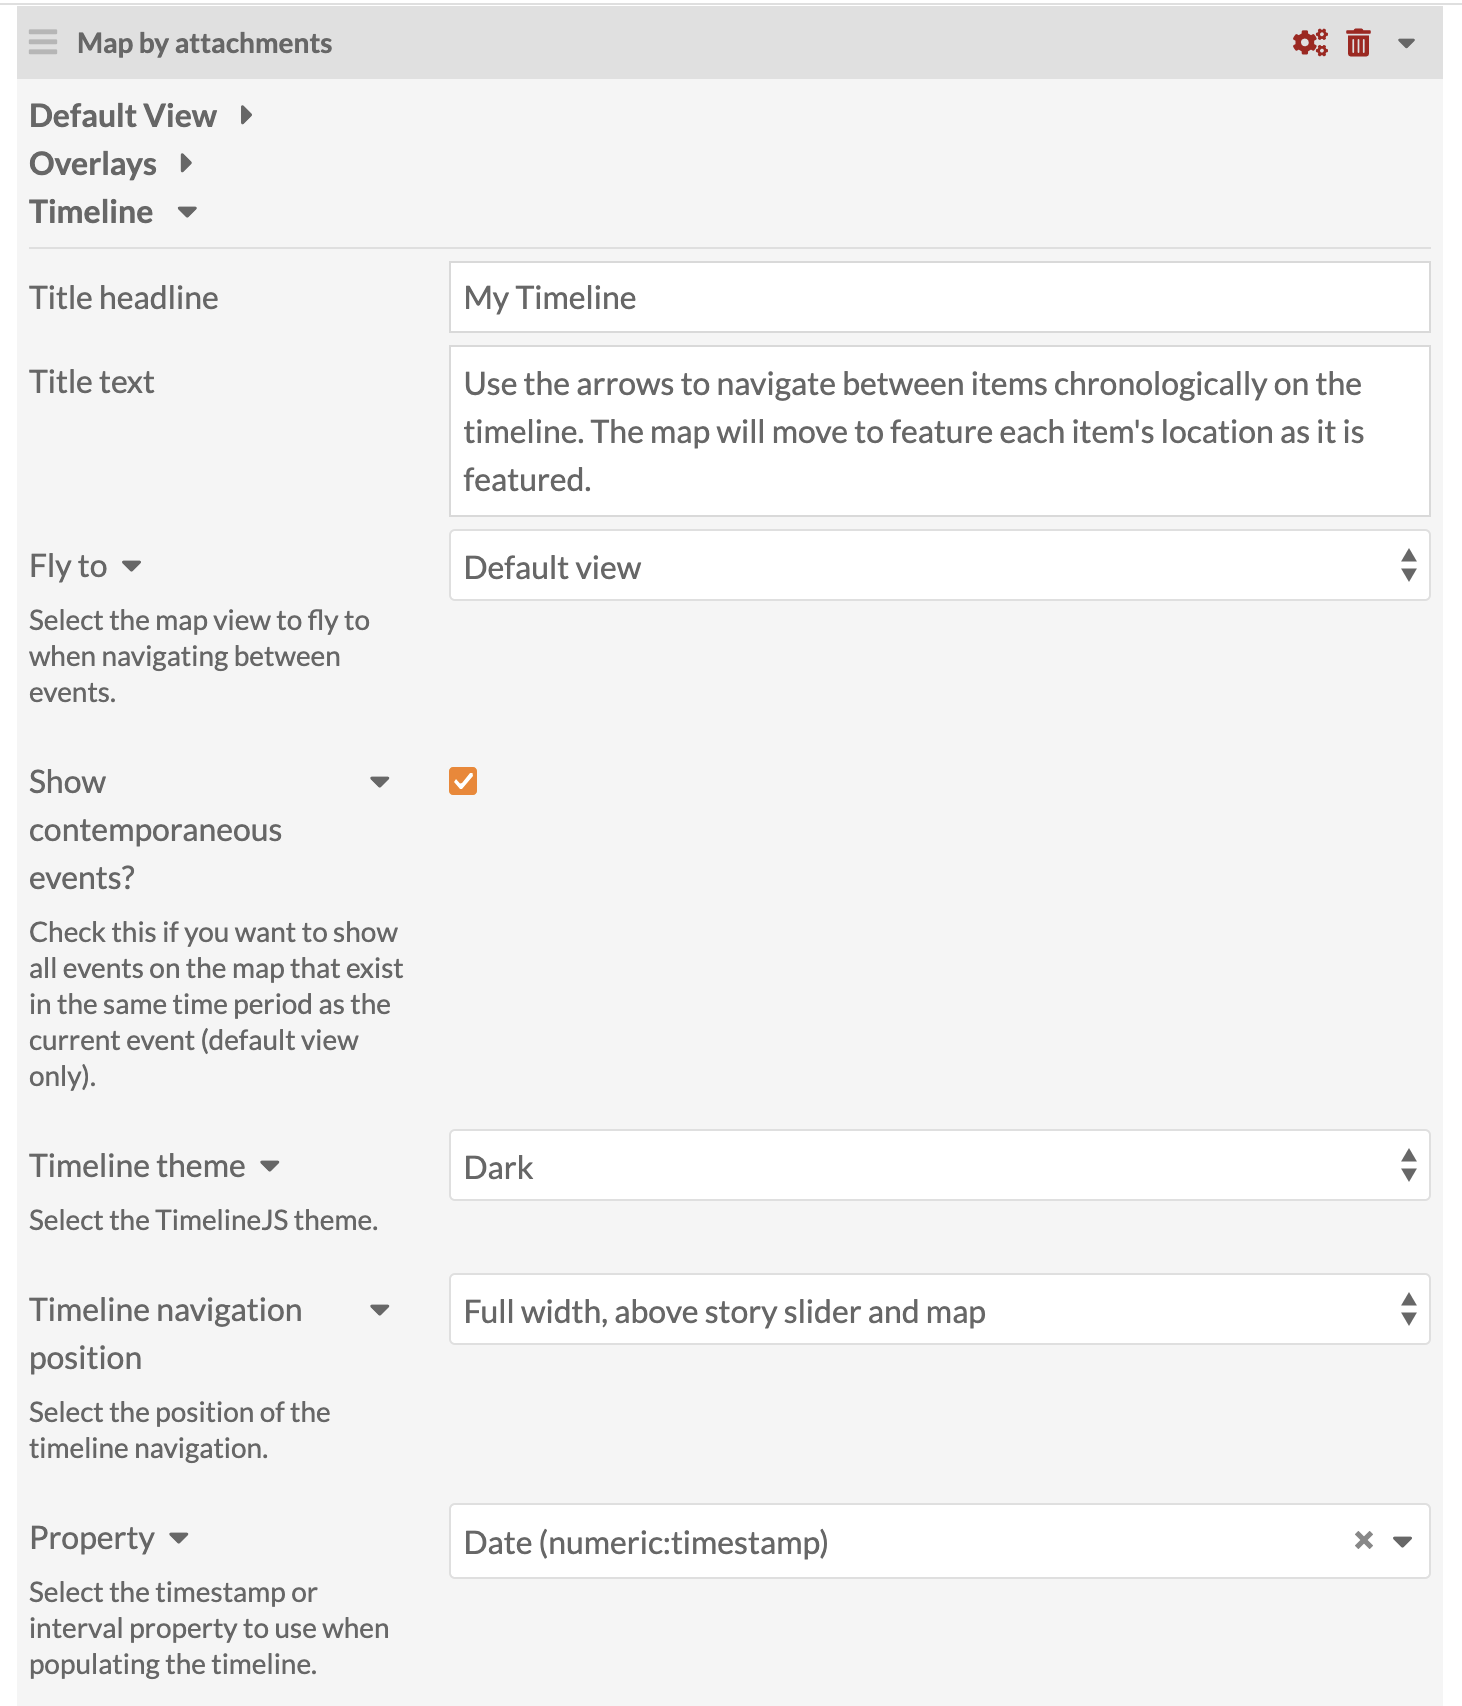
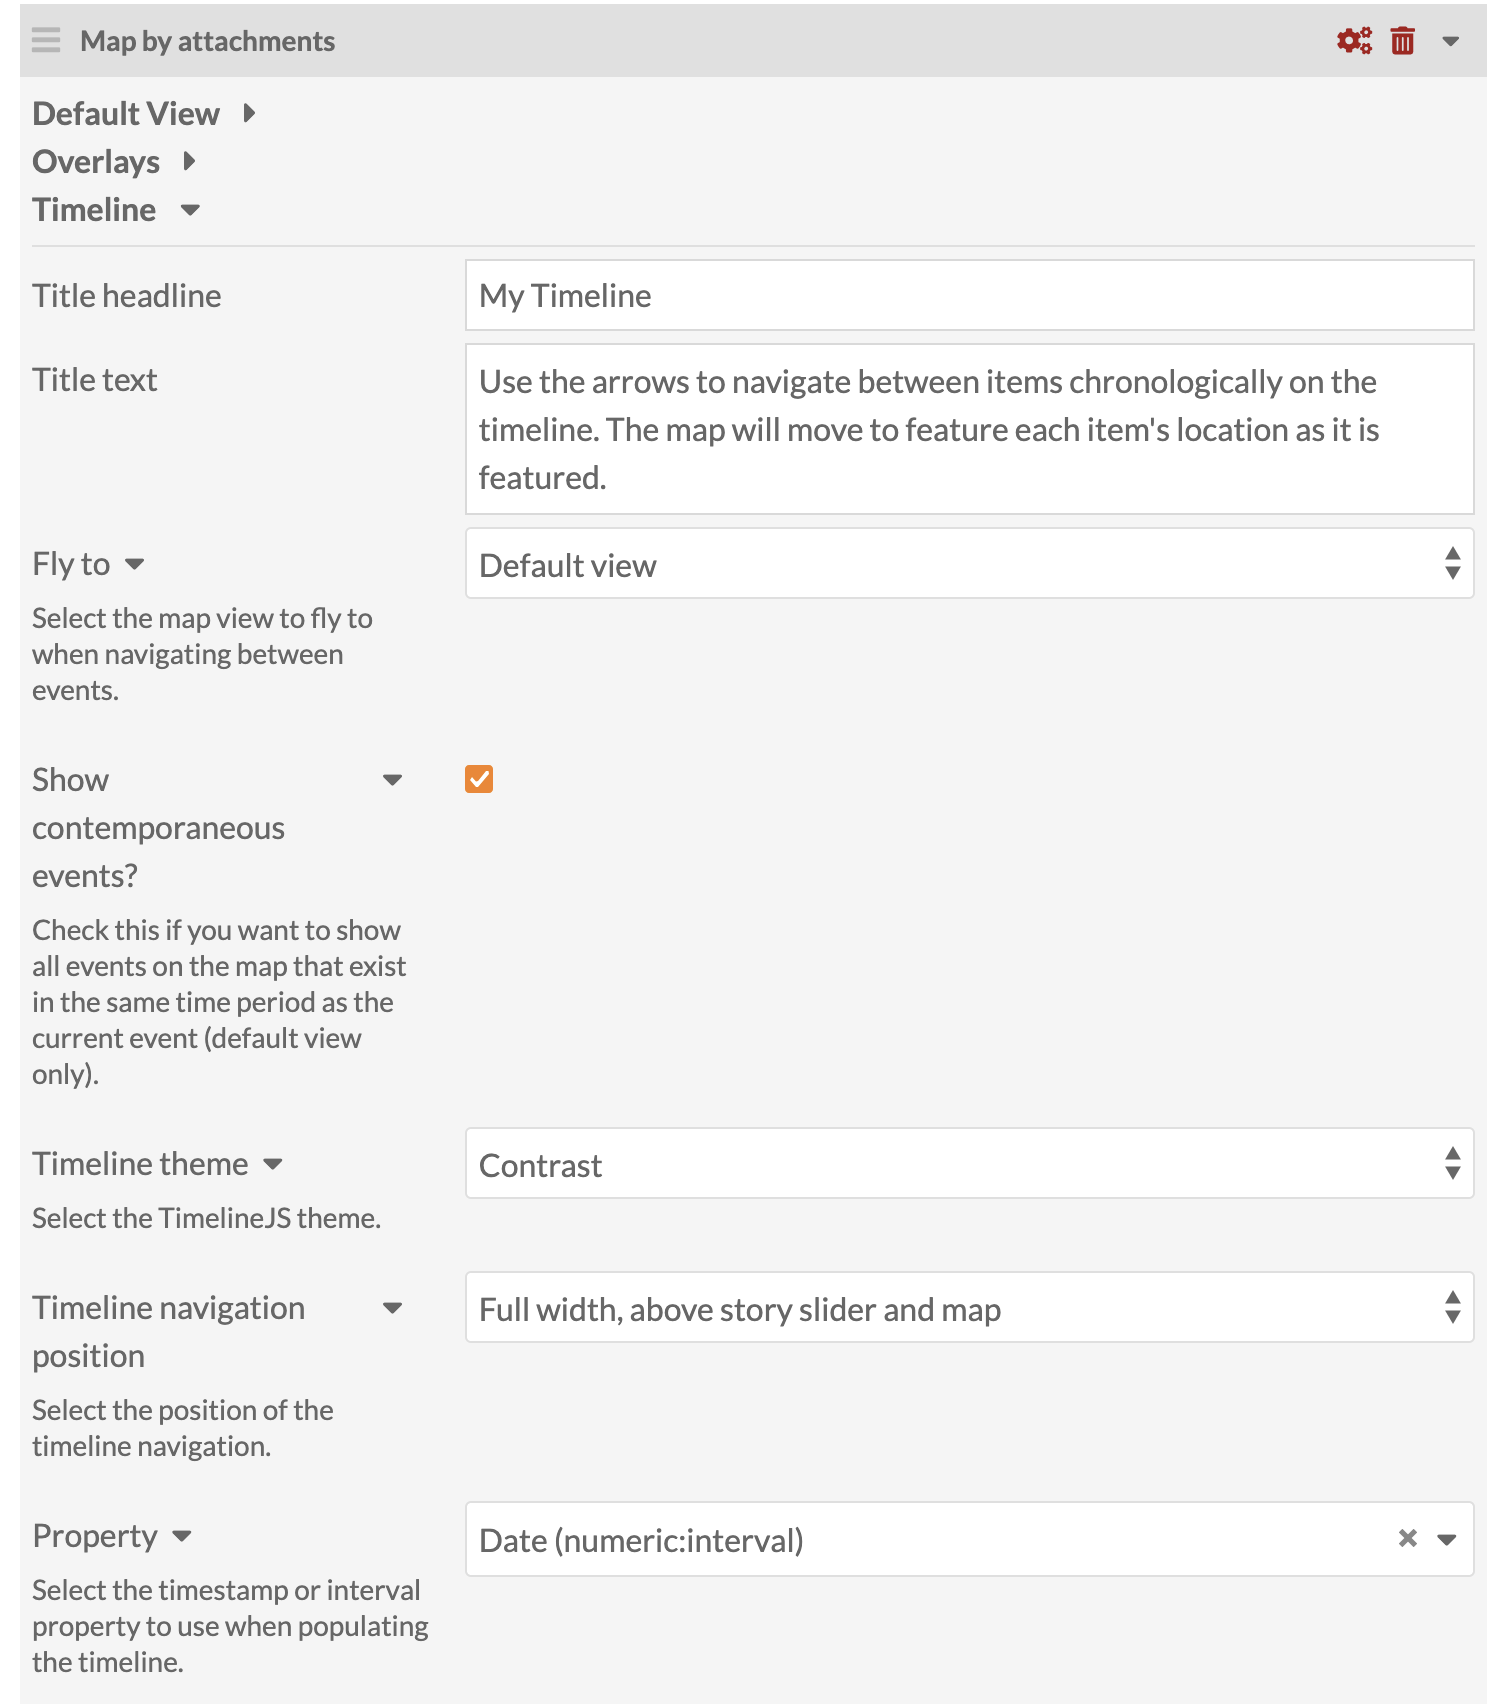
more

diff --git a/docs/modules/mapping.md b/docs/modules/mapping.md
@@ -145,6 +145,19 @@ If the chosen field in this batch operation does not contain valid entries, the 
 
 You may wish to copy your coordinates in one batch operation, then update those markers with labels and images in a second batch operation. Note that if an item has multiple markers, all markers will get updated with identical images and labels. 
 
+### Global settings
+
+All of the item add/edit maps in the installation can be given default settings  to enable faster gelocation work. These settings can then be overridden by logged-in users for their own mapping work. These settings will only take effect on the **administrative side** for **new item maps**, that is, for existing or new items with no current mapping data. 
+
+![The Mapping section of the installation-wide settings tab.](modulesfiles/Mapping_globalSettings.png)
+
+Under Admin in the left-hand bar of the administrative dashboard, click "Settings" and then scroll down to the "Mapping" section. In this section you can set: 
+
+- **Basemap provider**: Select a basemap from the dropdown to show when editing item maps on the administrative side.  
+- **Minimum zoom level**: Set a minimum zoom level for all item maps when they first load.  
+- **Maximum zoom level**: Set a maximum zoom level for all item maps when they first load.
+- **Default bounds**: Set an area that must always be shown in item maps when they first load. The four corner coordinates set in this map will be included inside any map, with excess shown if the map dimensions require it. 
+
 ### User settings
 
 A logged-in user can customize their own map settings to enable faster gelocation work. These settings will only take effect on the **administrative side** for **new item maps**, that is, for existing or new items with no current mapping data. These settings can be changed or removed at any time, as the user works through items. 
@@ -187,18 +200,6 @@ You cannot set marker labels or marker images in CSV Import. You cannot import t
 You cannot [batch-edit](../content/items.md#batch-editing) mapping values after items are in your system, only edit them manually one item at a time, or batch-revise mapping data using CSV Import.
 
 ## Add maps to a site
-
-### Global settings
-
-All of the maps in the entire installation can be given default settings, that can then be overridden at the site level and in specific maps' setting. 
-
-![The Mapping section of the installation-wide settings tab.](modulesfiles/Mapping_globalSettings.png)
-
-In this section you can: 
-
-	- set a basemap from the dropdown list
-	- set a minimum and maximum zoom level for all maps, and 
-	- set default bounds, the area of the world that is required to be displayed inside each map when first loaded. 
 
 ### Site-wide settings
 
@@ -383,7 +384,7 @@ The Timeline section allows you to add a timeline display alongside the map view
 	- For timestamp properties, if two events have a date of "1 January 2000," both events will show on the map when either is in the story slider.
 	- For interval properties, if one event has an interval of "28 July 1914 - 11 November 1918" and another has an interval of "January 1819 - December 1920" both events will show on the map when either is in the story slider.
 	- Note that this setting only works when "Fly to" is set to "Default view".
-- **Timeline theme**: A dropdown offering timeline color schemes from [TimelineJS](https://timeline.knightlab.com/){target=_blank}. The options are Default (the only theme available in previous versions of the timeline), a Dark theme, and a Contrast theme with accessibility-compliant colors. Note that these selections call a CSS file that will apply to all timelines on one page; different timelines on the same page cannot have different themes. 
+- **Timeline theme**: A dropdown offering timeline color schemes from [TimelineJS](https://timeline.knightlab.com/){target=_blank}. The options are Default (the only theme available in previous versions of the timeline), a Dark theme, and a Contrast theme with accessibility-compliant colors. Note that these selections call a CSS file that will apply to all timelines on one page; different timelines on the same page cannot have different themes. See the example images below in the [Timeline public view](#timeline-public-view) section of this page.
 - **Timeline navigation position**: by default, the timeline displays with the story slider, to the left of the map. Using this dropdown, you can change where the story slider displays. Options are:
 	- Default position
 	- Full width, below story slider and map
